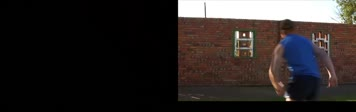
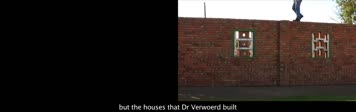
legacy pause on scroll

diff --git a/legacy/js/core.js b/legacy/js/core.js
@@ -51,6 +51,7 @@ $(document).ready(function () {
 		if(_fson){
 			fullscreen_off();
 		}
+		jwplayer("vidin").pause();
 		$('.yellow_b').show();
 		$('html, body').animate({ scrollTop: ($('.yellow_b').offset().top - 20) }, 1000);
 	});
@@ -281,6 +282,7 @@ $(document).ready(function () {
     	if(_videoon){
     		jwplayer("vidin").pause();
     	}
+    }
  	});
  
  

diff --git a/legacy/js/core_preredraw.js b/legacy/js/core_preredraw.js
@@ -51,6 +51,7 @@ $(document).ready(function () {
 		if(_fson){
 			fullscreen_off();
 		}
+		jwplayer("vidin").pause();
 		$('.yellow_b').show();
 		$('html, body').animate({ scrollTop: ($('.yellow_b').offset().top - 20) }, 1000);
 	});
@@ -286,6 +287,7 @@ $(document).ready(function () {
     	if(_videoon){
     		jwplayer("vidin").pause();
     	}
+    }
  	});
  
  
